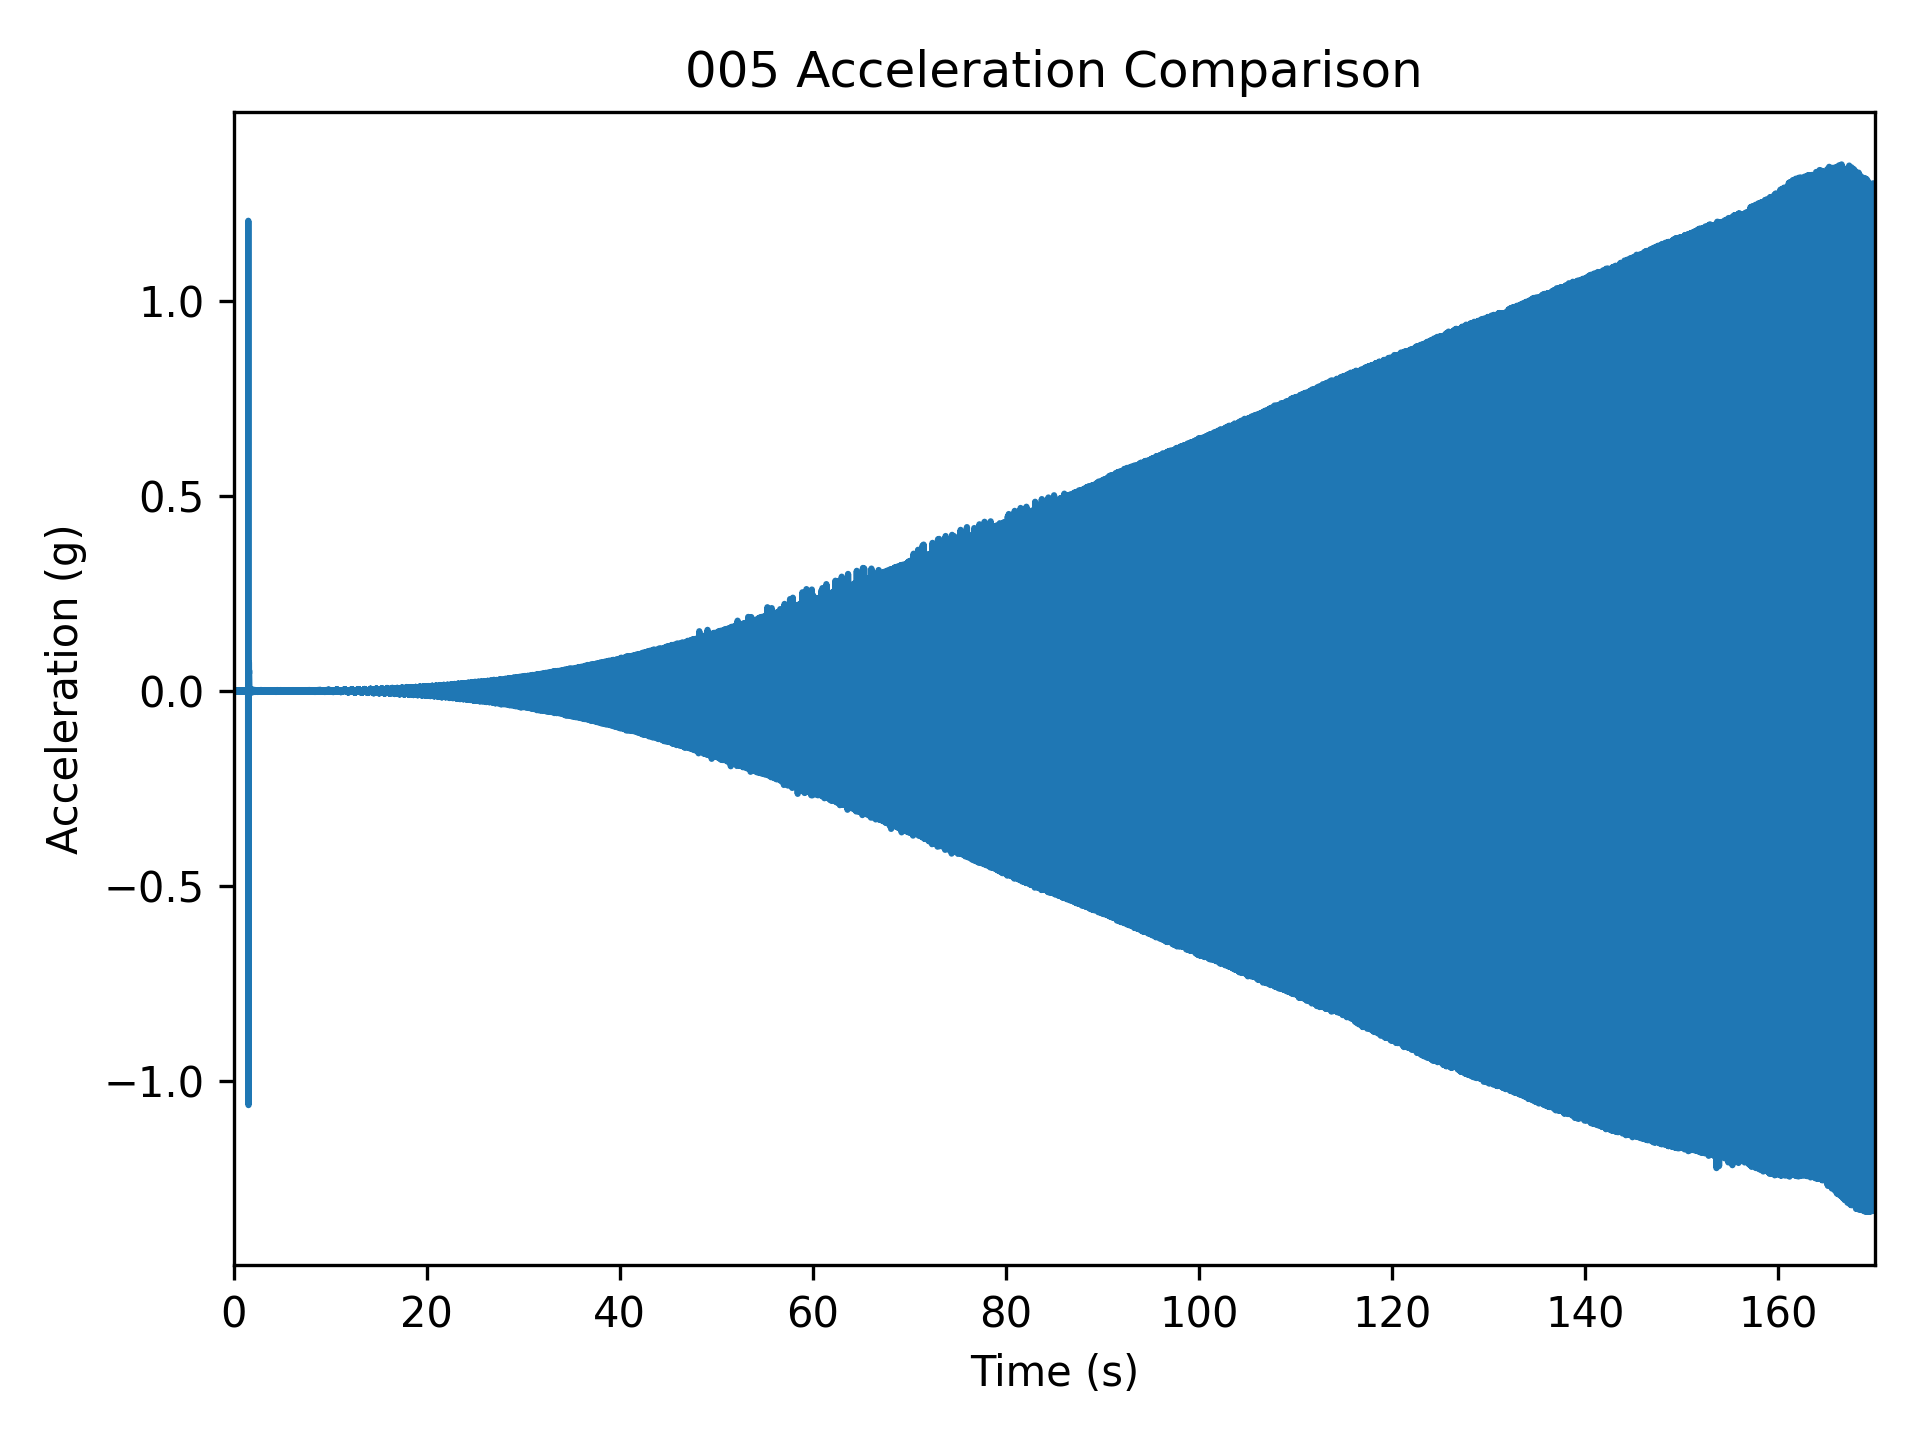
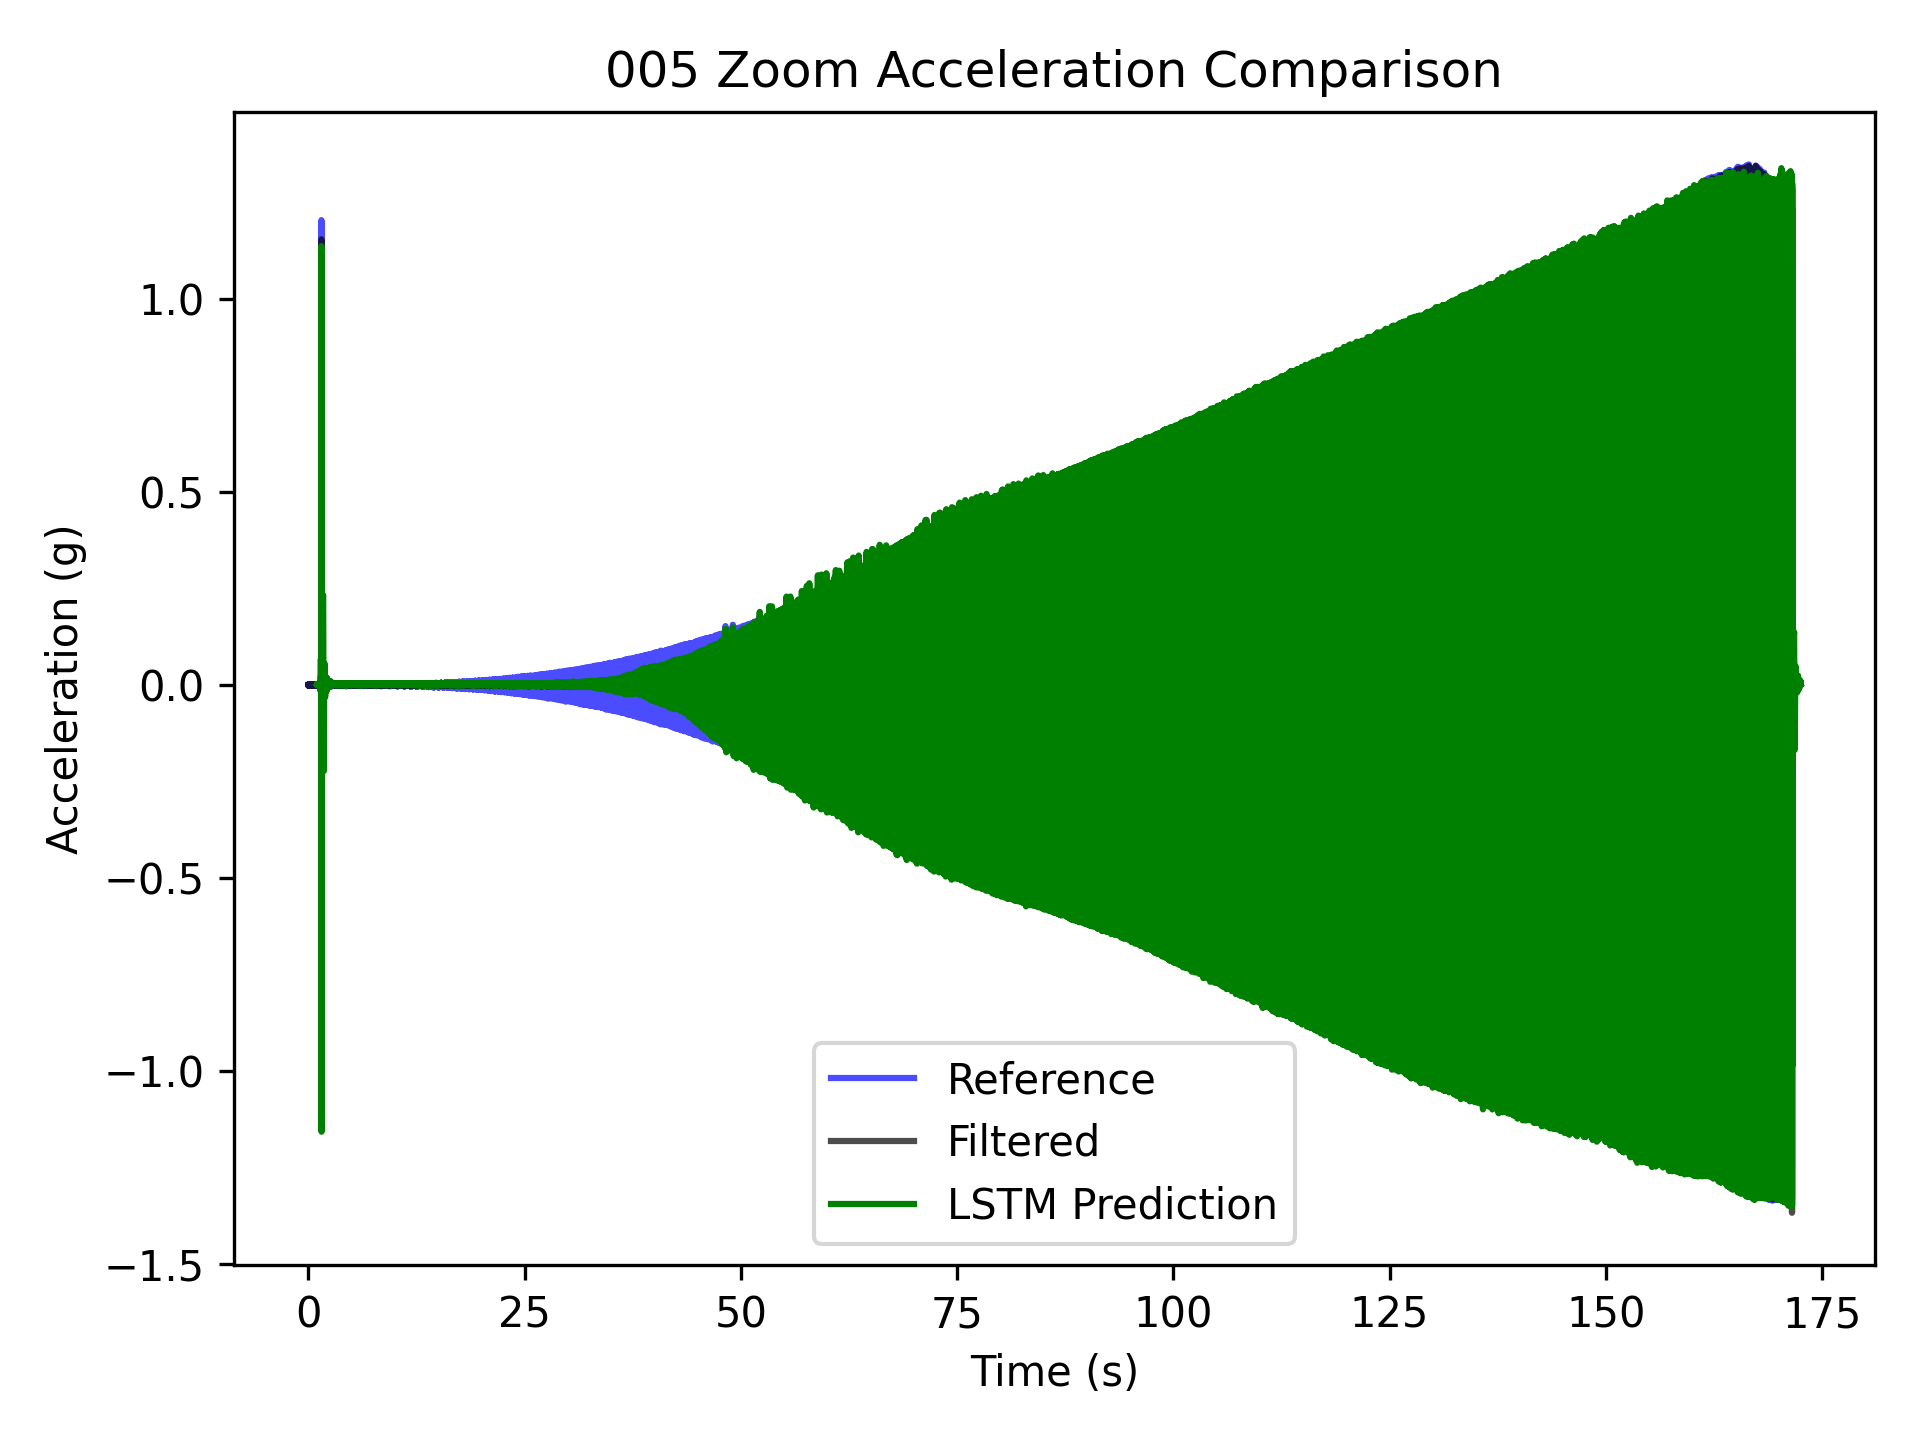
Updated lstm code and graphing results

diff --git a/system_design/International Gateway/V0.1/Software/Arduino/Shaker Data Collection/dataset_collection/Shaker Data Graphing Code.py b/system_design/International Gateway/V0.1/Software/Arduino/Shaker Data Collection/dataset_collection/Shaker Data Graphing Code.py
@@ -15,7 +15,9 @@ plt.close('all')
 
 
 #%% Load data
-file1 = 'E:/006.csv'
+train_file = 'E:/006.csv'
+test_file = 'E:/005.csv'
+
 
 def highpass_filter(signal, cutoff, fs, order=4):
     # note to self: signal as in acceleration values (ac), 
@@ -69,50 +71,55 @@ def process_data(filepath):
 
 
 #%% Process both files
-(tt1, ac1, ac1_filtered, f1, 
-A1_ref, A1_filtered,
-A1_ref_dB, A1_filtered_dB) = process_data(file1)
+(tt_train, ac_train, ac_train_filtered, f_train,
+ A_train_ref, A_train_filtered, A_train_ref_dB,
+ A_train_filtered_dB) = process_data(train_file)
+(tt_test, ac_test, ac_test_filtered, f_test,
+ A_test_ref, A_test_filtered, A_test_ref_dB,
+ A_test_filtered_dB) = process_data(test_file)
 
 
-ref = ac1
-filtered = ac1_filtered
+lstm_window_size = 400 # how much history the network sees
+
+####### TRAIN
+ref = ac_train
+filtered = ac_train_filtered
 input_scaler = StandardScaler()
 target_scaler = StandardScaler()
 filtered_scaled = input_scaler.fit_transform(filtered.reshape(-1,1))
 ref_scaled = target_scaler.fit_transform(ref.reshape(-1,1))
-
-lstm_window_size = 400 # how much history the network sees
-X = []
-y = []
+X_train = []
+y_train = []
 for i in range(lstm_window_size, len(filtered_scaled)):
-    X.append(filtered_scaled[i-lstm_window_size:i])
-    y.append(ref_scaled[i])
-
-X = np.array(X)
-y = np.array(y)
-print("X shape:", X.shape)
-print("y shape:", y.shape)
-print("X[1000] shape:", X[1000].shape)
-print("y[1000]:", y[1000])
+    X_train.append(filtered_scaled[i-lstm_window_size:i])
+    y_train.append(ref_scaled[i])
+X_train = np.array(X_train)
+y_train = np.array(y_train)
+print("X_train shape:", X_train.shape)
+print("y_train shape:", y_train.shape)
+print("X_train[1000] shape:", X_train[1000].shape)
+print("y_train[1000]:", y_train[1000])
 print("First target value:")
-print(y[0])
-
-
+print(y_train[0])
 # [0]: total # of training examples, [1]: # of values per example, 1: 1 feature (acceleration)
-X = np.reshape(X, (X.shape[0], X.shape[1], 1))
+X_train = np.reshape(X_train, (X_train.shape[0], X_train.shape[1], 1))
 
-# Split train/test needed. if we train on everything, train = test, nothing is learned. train teaches, test evaluates
-split = int(0.8 * len(X)) # train first 80%, test last 20%
-    # if 69,000 samples & window size = 400, len(X) = 68600 training windows
-X_train = X[:split] # X_train = Beginning -> split (# value)
-X_test = X[split:] # X_test = split (# value) -> End
-
-y_train = y[:split]
-y_test = y[split:]
+####### TEST
+filtered_test = ac_test_filtered
+ref_test = ac_test
+filtered_test_scaled = input_scaler.transform(filtered_test.reshape(-1,1))
+ref_test_scaled = target_scaler.transform(ref_test.reshape(-1,1))
+X_test = []
+y_test = []
+for i in range(lstm_window_size, len(filtered_test_scaled)):
+    X_test.append(filtered_test_scaled[i-lstm_window_size:i])
+    y_test.append(ref_test_scaled[i])
+X_test = np.array(X_test)
+y_test = np.array(y_test)
+X_test = np.reshape(X_test, (X_test.shape[0], X_test.shape[1], 1))
 
 print("X_train:", X_train.shape)
 print("X_test:", X_test.shape)
-
 print("y_train:", y_train.shape)
 print("y_test:", y_test.shape)
 
@@ -124,12 +131,18 @@ model.add(keras.layers.Dense(1))
 model.compile(optimizer = 'adam', loss = 'MSE', metrics=[keras.metrics.RootMeanSquaredError()]) # tells it how to measure success so it can adjust it's answers
 #Train
 history = model.fit(X_train, y_train, epochs=5, batch_size=32)
-predictions_all = model.predict(X)
+model.save('lstm_model.keras')
+model = keras.models.load_model('lstm_model.keras')
+predictions = model.predict(X_test)
 # turns the units back to what we want
-predictions_all = target_scaler.inverse_transform(predictions_all)
+predictions = target_scaler.inverse_transform(predictions)
 y_test_actual = target_scaler.inverse_transform(y_test.reshape(-1,1))
-prediction_time_all = tt1[lstm_window_size:]
+prediction_time = tt_test[lstm_window_size:]
+np.save('predictions.npy', predictions)
+np.save('prediction_time.npy', prediction_time)
 pred_fft = np.fft.fft(predictions.flatten())
+# predictions = np.load('predictions.npy')
+# prediction_time = np.load('prediction_time.npy')
 
 #LSTM Predictions
 N_pred = len(predictions)
@@ -141,20 +154,18 @@ A_pred = np.abs(pred_fft) / N_pred
 A_pred_dB = 20 * np.log10(A_pred + 1e-12)
 
 
-
-
 # size of plot figure (think of it like the measuremetns of a sheet of paper)
 plt.figure(figsize=(6.5,3))
 
 # FFT vs Spectrogram: FFT -> what frequencies exist overall, Spectrogram -> how frequency changes over time
 plt.figure(1)
-plt.plot(f1, A1_ref_dB, label='Reference')
-plt.plot(f1, A1_filtered_dB, label='Filtered')
-plt.plot(f_pred, A_pred_dB, label='LSTM Prediction')
+plt.plot(f_test, A_test_ref_dB, color='blue', label='Reference')
+plt.plot(f_test, A_test_filtered_dB, color='black', label='Filtered')
+plt.plot(f_pred, A_pred_dB, color='green', label='LSTM Prediction')
 plt.ylabel('Amplitude (dB)')
 plt.xlabel('Frequency (Hz)')
 plt.legend()
-plt.title('006 FFT Spectrum Comparison')
+plt.title('005 FFT Spectrum Comparison')
 plt.grid(True)
 # Zoom near region of interest
 plt.xlim(0,30) # up to Nyquist (fs/2 = 200)
@@ -164,23 +175,23 @@ plt.ylim(-170,-10)
 # plt.plot(f1[peak_idx1], A1_filtered_dB[peak_idx1], 'ro')
 # plt.text(f1[peak_idx1] + 2, A1_filtered_dB[peak_idx1], f'{f1[peak_idx1]:.1f} Hz', color = 'red')
 plt.tight_layout()
-plt.savefig('C:/Users/giese/OneDrive/Documents/GitHub/Drone-Delivered-Vibration-Sensor/system_design/International Gateway/V0.1/Software/Arduino/Shaker Data Collection/006_FFT_Spectrum_Comparison.png')
+plt.savefig('C:/Users/giese/OneDrive/Documents/GitHub/Drone-Delivered-Vibration-Sensor/system_design/International Gateway/V0.1/Software/Arduino/Shaker Data Collection/005_FFT_Spectrum_Comparison.png')
 plt.show()
 
 fft_smoothing_window = 10
-A1_ref_smooth = np.convolve(A1_ref_dB, np.ones(fft_smoothing_window)/fft_smoothing_window, mode='same')
-A1_filtered_smooth = np.convolve(A1_filtered_dB, np.ones(fft_smoothing_window)/fft_smoothing_window, mode='same')
+A_test_ref_smooth = np.convolve(A_test_ref_dB, np.ones(fft_smoothing_window)/fft_smoothing_window, mode='same')
+A_test_filtered_smooth = np.convolve(A_test_filtered_dB, np.ones(fft_smoothing_window)/fft_smoothing_window, mode='same')
 A_pred_smooth = np.convolve(A_pred_dB, np.ones(fft_smoothing_window) / fft_smoothing_window, mode='same')
 
 plt.figure(5)
-plt.plot(f1, A1_ref_smooth, label='Reference')
-plt.plot(f1, A1_filtered_smooth, label='Filtered')
-plt.plot(f_pred, A_pred_smooth, label='LSTM Prediction')
+plt.plot(f_test, A_test_ref_smooth, color='blue', label='Reference')
+plt.plot(f_test, A_test_filtered_smooth, color='black', label='Filtered')
+plt.plot(f_pred, A_pred_smooth, color='green', label='LSTM Prediction')
 plt.legend()
 plt.grid(True)
 plt.ylabel('Amplitude (dB)')
 plt.xlabel('Frequency (Hz)')
-plt.title('006 FFT Smoothed Spectrum Comparison')
+plt.title('005 FFT Smoothed Spectrum Comparison')
 # Zoom near region of interest
 plt.xlim(0,30) # up to Nyquist (fs/2 = 200)
 plt.ylim(-170,-10)
@@ -189,7 +200,7 @@ plt.ylim(-170,-10)
 # plt.plot(f1[peak_idx1], A1_filtered_smooth[peak_idx1], 'ro')
 # plt.text(f1[peak_idx1] + 2, A1_filtered_smooth[peak_idx1], f'{f1[peak_idx1]:.1f} Hz', color = 'red')
 plt.tight_layout()
-plt.savefig('C:/Users/giese/OneDrive/Documents/GitHub/Drone-Delivered-Vibration-Sensor/system_design/International Gateway/V0.1/Software/Arduino/Shaker Data Collection/006_FFT_Smoothed_Spectrum_Comparison.png')
+plt.savefig('C:/Users/giese/OneDrive/Documents/GitHub/Drone-Delivered-Vibration-Sensor/system_design/International Gateway/V0.1/Software/Arduino/Shaker Data Collection/005_FFT_Smoothed_Spectrum_Comparison.png')
 plt.show()
 
 # plt.figure(2)
@@ -205,15 +216,15 @@ plt.show()
 # plt.savefig('C:/Users/giese/OneDrive/Documents/GitHub/Drone-Delivered-Vibration-Sensor/system_design/International Gateway/V0.1/Software/Arduino/Shaker Data Collection/006_Acceleration_Comparison.png', dpi=300)
 
 plt.figure(6)
-plt.plot(tt1, ac1, label='Reference', alpha=0.7) # alpha controls transparency of lines
-plt.plot(tt1, ac1_filtered, label='Filtered', alpha=0.7)
-plt.plot(prediction_time_all, predictions_all, label = 'LSTM Prediction')
+plt.plot(tt_test, ac_test, color='blue', label='Reference', alpha=0.7) # alpha controls transparency of lines
+plt.plot(tt_test, ac_test_filtered, color='black', label='Filtered', alpha=0.7)
+plt.plot(prediction_time, predictions, color='green', label = 'LSTM Prediction')
 plt.xlabel('Time (s)')
 plt.ylabel('Acceleration (g)')
-plt.title('006 Acceleration Comparison')
+plt.title('005 Zoom Acceleration Comparison')
 plt.legend()
 plt.tight_layout()
-plt.savefig('C:/Users/giese/OneDrive/Documents/GitHub/Drone-Delivered-Vibration-Sensor/system_design/International Gateway/V0.1/Software/Arduino/Shaker Data Collection/006_Acceleration_Comparison.png', dpi=300)
+plt.savefig('C:/Users/giese/OneDrive/Documents/GitHub/Drone-Delivered-Vibration-Sensor/system_design/International Gateway/V0.1/Software/Arduino/Shaker Data Collection/005_Acceleration_Comparison.png', dpi=300)
 plt.show()
 
 # plt.figure(7)